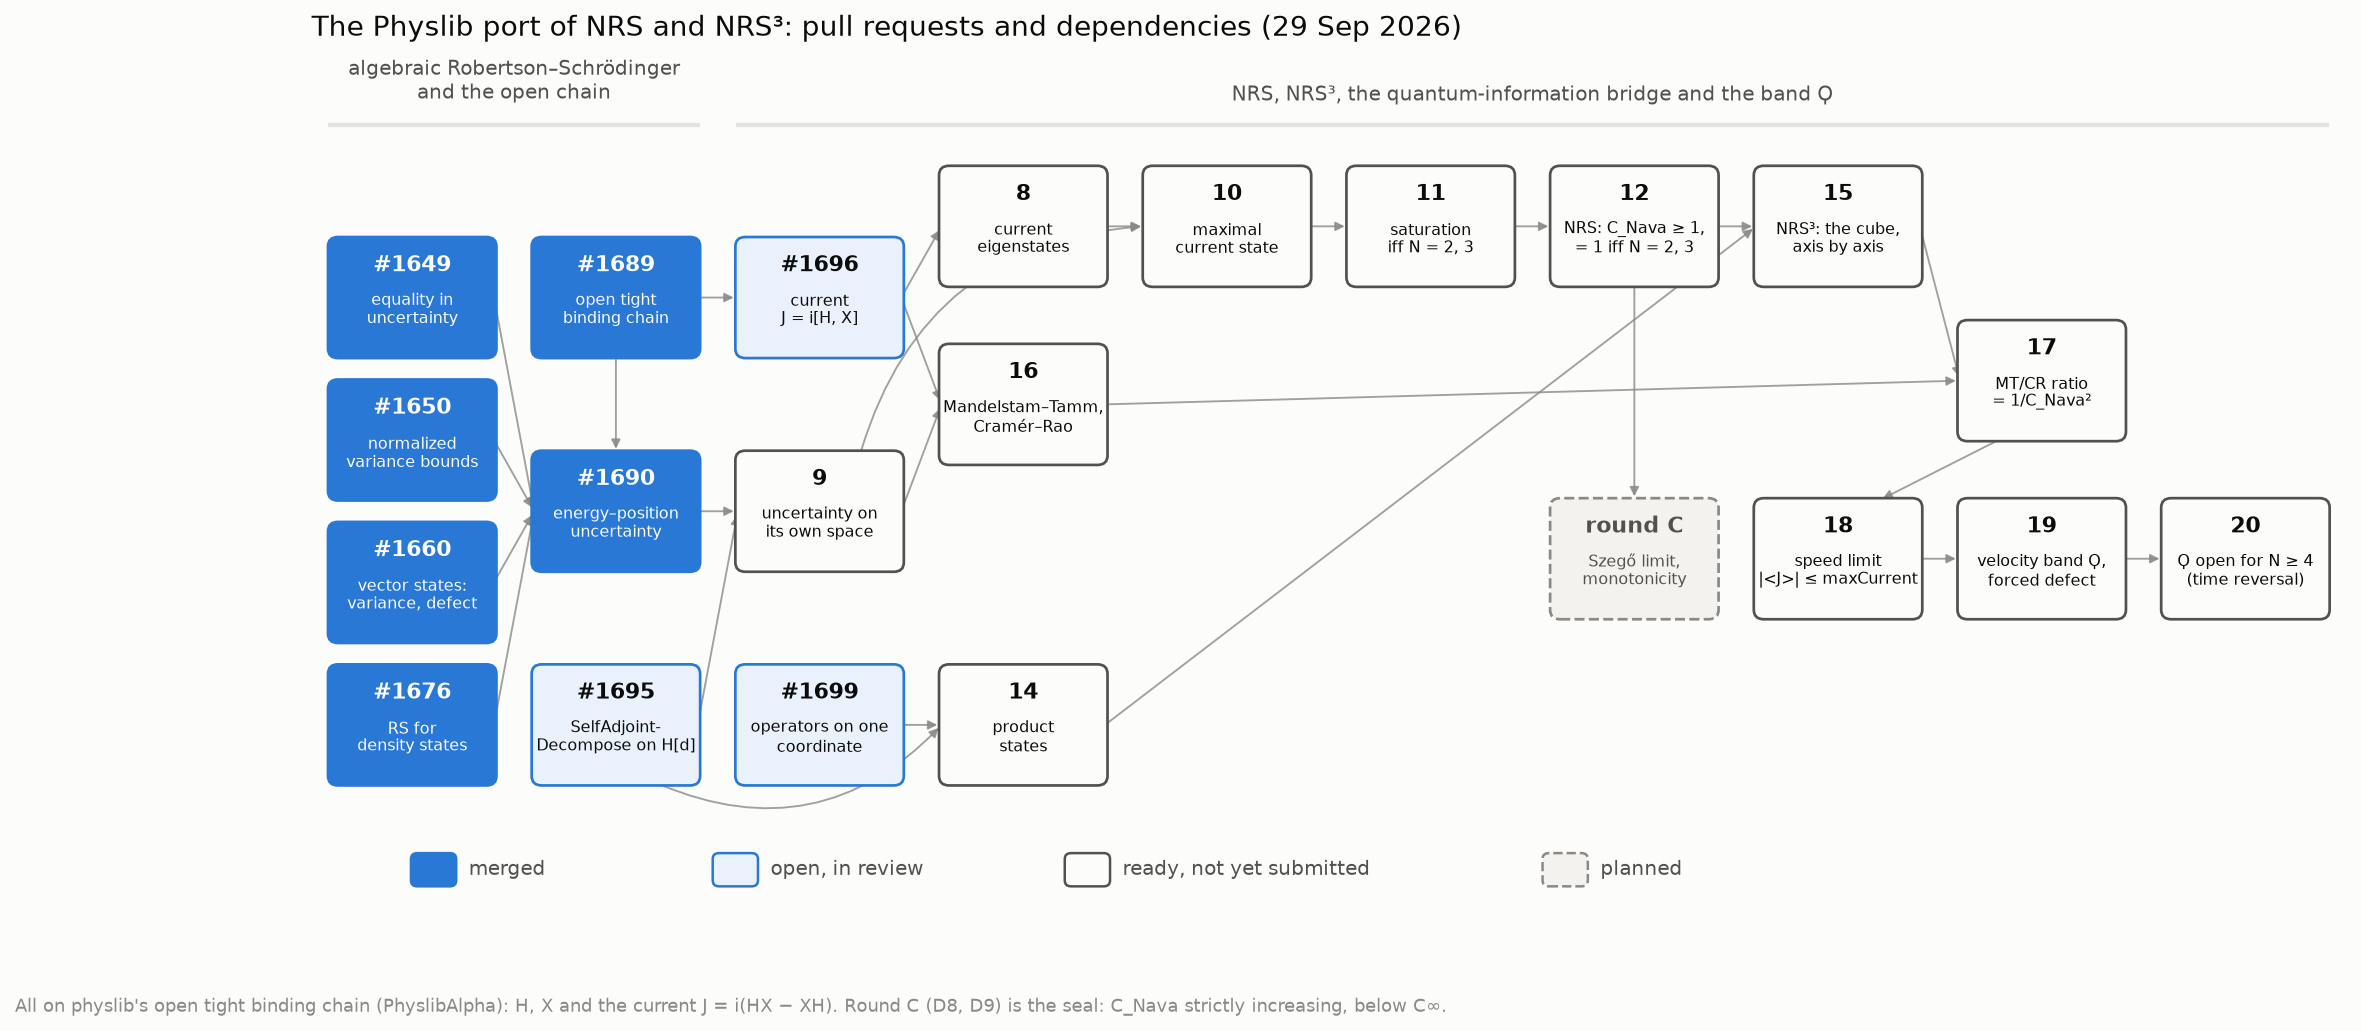
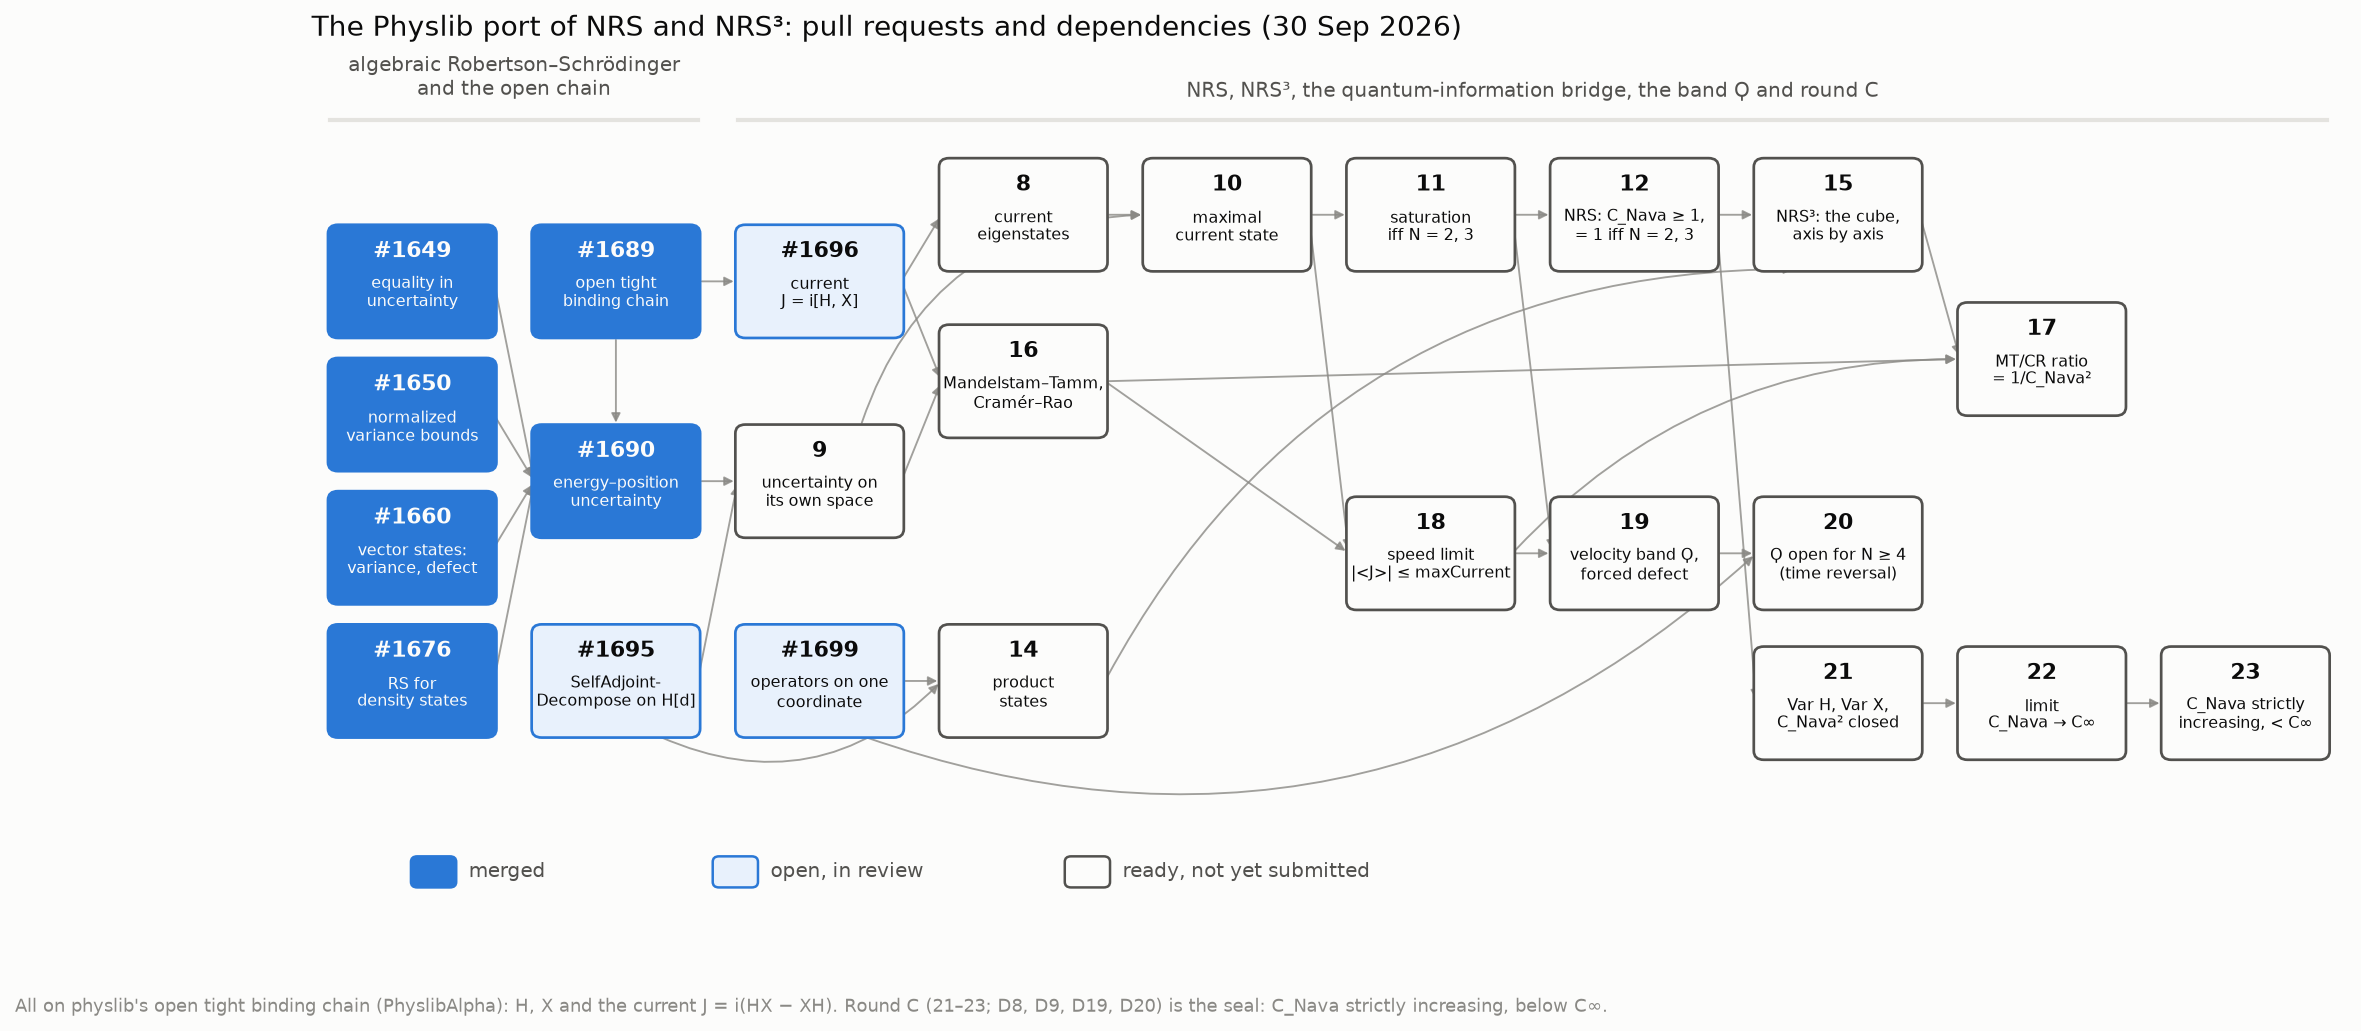
docs(PHYSLIB_PORT): round C (PRs 21–23), order of submission, new dependencies of 17–20

diff --git a/docs/simulation/figures_physlib_port.py b/docs/simulation/figures_physlib_port.py
@@ -5,7 +5,7 @@ Writes to docs/figures/:
   physlib_band_time_reversal.png   why the velocity band is open from four sites on (PR 20)
 
 The port states NRS on physlib's open tight binding chain: Hamiltonian H (hopping t), position X
-(spacing a), current J = i(HX − XH). The ladder records the status on 2026-09-29. In the second
+(spacing a), current J = i(HX − XH). The ladder records the status on 2026-09-30. In the second
 figure the currents, the phases and the defects are exact closed forms evaluated numerically; the
 thresholds v*(N) for N ≥ 5 are numerical (D44 figures), v*(4) = 3(√5 − 1)/4 is exact (D43).
 
@@ -43,22 +43,30 @@ NODES = {
     "10": (4, 5.6, "10\nmaximal\ncurrent state", "local"),
     "11": (5, 5.6, "11\nsaturation\niff N = 2, 3", "local"),
     "12": (6, 5.6, "12\nNRS: C_Nava ≥ 1,\n= 1 iff N = 2, 3", "local"),
-    "C": (6, 2.8, "round C\nSzegő limit,\nmonotonicity", "planned"),
     "15": (7, 5.6, "15\nNRS³: the cube,\naxis by axis", "local"),
     "17": (8, 4.3, "17\nMT/CR ratio\n= 1/C_Nava²", "local"),
-    "18": (7, 2.8, "18\nspeed limit\n|<J>| ≤ maxCurrent", "local"),
-    "19": (8, 2.8, "19\nvelocity band Ϙ,\nforced defect", "local"),
-    "20": (9, 2.8, "20\nϘ open for N ≥ 4\n(time reversal)", "local"),
+    "18": (5, 2.55, "18\nspeed limit\n|<J>| ≤ maxCurrent", "local"),
+    "19": (6, 2.55, "19\nvelocity band Ϙ,\nforced defect", "local"),
+    "20": (7, 2.55, "20\nϘ open for N ≥ 4\n(time reversal)", "local"),
+    "21": (7, 1.2, "21\nVar H, Var X,\nC_Nava² closed", "local"),
+    "22": (8, 1.2, "22\nlimit\nC_Nava → C∞", "local"),
+    "23": (9, 1.2, "23\nC_Nava strictly\nincreasing, < C∞", "local"),
 }
 
-CURVE = {("1695", "14"): 0.35, ("9", "10"): -0.35}
+CURVE = {("1695", "14"): 0.35, ("9", "10"): -0.35, ("18", "17"): -0.22,
+         ("1699", "20"): 0.3, ("14", "15"): -0.3}
+# edges that leave from the top or bottom of their box instead of its side
+VERTICAL_START = {("1695", "14"), ("9", "10"), ("1699", "20")}
+# edges that arrive at the bottom of their target box
+BOTTOM_END = {("14", "15")}
 
 EDGES = [
     ("1649", "1690"), ("1650", "1690"), ("1660", "1690"), ("1676", "1690"), ("1689", "1690"),
     ("1689", "1696"), ("1690", "9"), ("1695", "9"), ("1695", "14"), ("1699", "14"),
     ("1696", "8"), ("1696", "16"), ("9", "16"), ("8", "10"), ("9", "10"), ("10", "11"),
-    ("11", "12"), ("12", "15"), ("14", "15"), ("15", "17"), ("16", "17"), ("17", "18"),
-    ("18", "19"), ("19", "20"), ("12", "C"),
+    ("11", "12"), ("12", "15"), ("14", "15"), ("15", "17"), ("16", "17"), ("18", "17"),
+    ("10", "18"), ("16", "18"), ("11", "19"), ("18", "19"), ("19", "20"), ("1699", "20"),
+    ("12", "21"), ("21", "22"), ("22", "23"),
 ]
 
 STYLE = {
@@ -87,8 +95,11 @@ def fig_ladder():
             start, end = (x0 - W / 4, y0 - H / 2), (x1 + W / 4, y1 + H / 2)
         else:
             start, end = (x0 + W / 2, y0), (x1 - W / 2, y1)
-        if (a, b) in CURVE:
-            start, end = (x0 + W / 4, y0 + (H / 2 if y1 > y0 else -H / 2)), (x1 - W / 2, y1)
+        if (a, b) in VERTICAL_START:
+            up = y1 > y0 and (a, b) != ("1699", "20")
+            start, end = (x0 + W / 4, y0 + (H / 2 if up else -H / 2)), (x1 - W / 2, y1)
+        if (a, b) in BOTTOM_END:
+            end = (x1 - W / 4, y1 - H / 2)
         ax.add_patch(FancyArrowPatch(start, end, arrowstyle="-|>", mutation_scale=9, lw=0.9,
                                      color=MUTED, alpha=0.8, shrinkA=2, shrinkB=2, zorder=1,
                                      connectionstyle=f"arc3,rad={CURVE.get((a, b), 0)}"))
@@ -104,24 +115,23 @@ def fig_ladder():
                 color=s["tc"], linespacing=1.15, zorder=3)
     bands = [(-W / 2, DX + W / 2, "algebraic Robertson–Schrödinger\nand the open chain"),
              (2 * DX - W / 2, 9 * DX + W / 2,
-              "NRS, NRS³, the quantum-information bridge and the band Ϙ")]
+              "NRS, NRS³, the quantum-information bridge, the band Ϙ and round C")]
     for x0, x1, t in bands:
         ax.plot([x0, x1], [6.45, 6.45], color=GRID, lw=2)
         ax.text((x0 + x1) / 2, 6.62, t, ha="center", va="bottom", fontsize=9.5, color=INK2)
     for x, status, t in [(0.0, "merged", "merged"), (2.4, "open", "open, in review"),
-                         (5.2, "local", "ready, not yet submitted"),
-                         (9.0, "planned", "planned")]:
+                         (5.2, "local", "ready, not yet submitted")]:
         s = STYLE[status]
-        ax.add_patch(FancyBboxPatch((x, 0.05), 0.34, 0.26, boxstyle="round,pad=0.01,"
+        ax.add_patch(FancyBboxPatch((x, -0.45), 0.34, 0.26, boxstyle="round,pad=0.01,"
                      "rounding_size=0.05", fc=s["fc"], ec=s["ec"], ls=s["ls"], lw=1.2))
-        ax.text(x + 0.45, 0.18, t, va="center", fontsize=9.5, color=INK2)
+        ax.text(x + 0.45, -0.32, t, va="center", fontsize=9.5, color=INK2)
     ax.set_xlim(-0.8, 9 * DX + 0.8)
-    ax.set_ylim(-0.1, 7.1)
+    ax.set_ylim(-0.6, 7.1)
     ax.set_title("The Physlib port of NRS and NRS³: pull requests and dependencies "
-                 "(29 Sep 2026)", loc="left", fontsize=13.5, color=INK)
+                 "(30 Sep 2026)", loc="left", fontsize=13.5, color=INK)
     fig.text(0.012, 0.012, "All on physlib's open tight binding chain (PhyslibAlpha): H, X and "
-             "the current J = i(HX − XH). Round C (D8, D9) is the seal: C_Nava strictly "
-             "increasing, below C∞.", fontsize=8.5, color=MUTED)
+             "the current J = i(HX − XH). Round C (21–23; D8, D9, D19, D20) is the seal: C_Nava "
+             "strictly increasing, below C∞.", fontsize=8.5, color=MUTED)
     fig.savefig(OUT / "physlib_port_ladder.png", bbox_inches="tight")
     plt.close(fig)
 

diff --git a/docs/PHYSLIB_PORT.md b/docs/PHYSLIB_PORT.md
@@ -9,7 +9,7 @@ a result of the corpus in the vocabulary of a mainstream physical model.
 
 Every file is Mathlib, Physlib and PhyslibAlpha only, at most 300 lines, lines of at most 100
 characters, no `sorry`, only the standard axioms (`propext`, `Classical.choice`, `Quot.sound`),
-and passes every PhyslibAlpha linter. Status on 29 September 2026.
+and passes every PhyslibAlpha linter. Status on 30 September 2026.
 
 ![The Physlib port](figures/physlib_port_ladder.png)
 
@@ -34,11 +34,49 @@ and passes every PhyslibAlpha linter. Status on 29 September 2026.
 | 14 | `…/FiniteTarget/ProductState` | 236 | product states: one-coordinate statistics are the factor's | `D37` | ready |
 | 15 | `…/TightBindingChain/Cube` | 265 | the open cube; axes commute; `C_Nava` per axis; `nava_robertson_schrodinger_cube` | `D37` | ready |
 | 16 | `…/TightBindingChain/MandelstamTamm` | 139 | `|⟨J⟩| ≤ 2 ΔH ΔX` (Mandelstam–Tamm), `⟨J⟩²/Var X ≤ 4 Var H` (Cramér–Rao) | `D41` | ready |
-| 17 | `…/TightBindingChain/MandelstamTammMaxCurrent` | 134 | the ratio is `1/C_Nava²`, `= 1` iff `N = 2, 3`; per axis of the cube | `D41` | ready |
-| 18 | `…/TightBindingChain/SpeedLimit` | 207 | orthonormal basis of current eigenstates; `|⟨J⟩| ≤ 2|at| cos(π/(N+1))` in every state | `D38`, `D40` | ready |
-| 19 | `…/TightBindingChain/VelocityBand` | 171 | minimum-uncertainty vectors are compact; the threshold `v*` is attained; forced defect in `Ϙ` | `D44` | ready |
-| 20 | `…/TightBindingChain/VelocityBandWidth` | 265 | time reversal; `v* < maxCurrent` and `Ϙ ≠ ∅` for `N ≥ 4` | `D44`, `D46` | ready |
-| C | — | ~1250 | Szegő limit and strict monotonicity of `C_Nava` | `D8`, `D9` | planned |
+| 17 | `…/TightBindingChain/MandelstamTammMaxCurrent` | 126 | the ratio is `1/C_Nava²`, `= 1` iff `N = 2, 3`; per axis of the cube | `D41` | ready |
+| 18 | `…/TightBindingChain/SpeedLimit` | 218 | orthonormal basis of current eigenstates; `⟨J⟩ = 2at cos(π/(N+1))` in the maximal current state; `|⟨J⟩| ≤ 2|at| cos(π/(N+1))` in every state | `D38`, `D40` | ready |
+| 19 | `…/TightBindingChain/VelocityBand` | 172 | minimum-uncertainty vectors are compact; the threshold `v*` is attained; forced defect in `Ϙ` | `D44` | ready |
+| 20 | `…/TightBindingChain/VelocityBandWidth` | 266 | time reversal; `v* < maxCurrent` and `Ϙ ≠ ∅` for `N ≥ 4` | `D44`, `D46` | ready |
+| 21 | `…/TightBindingChain/MaxCurrentVariances` | 249 | `Var H = 4t² sin²θ (N−1)/(N+1)`, `Var X = a²(((N+1)²+2)/12 − 1/(2 sin²θ))`, `θ = π/(N+1)`; `C_Nava²` in closed form (`CNava_sq_eq`) | `D19`, `D20` | ready |
+| 22 | `…/TightBindingChain/LongChainLimit` | 108 | `C_Nava → √(π²/3 − 2)` along any family of chains with `N → ∞` (`tendsto_CNava`); the limit is `> 1` | `D8` | ready |
+| 23 | `…/TightBindingChain/LongChainMonotonicity` | 297 | `C_Nava` strictly increasing in `N` from four sites on (`CNava_lt_CNava`); `C_Nava < √(π²/3 − 2)` | `D9` | ready |
+
+## Order of submission
+
+At most three pull requests are open at a time; each wave goes up when the previous one is
+merged. The dependencies are those of the `import` lines.
+
+| Wave | Pull requests | Depends on |
+|---|---|---|
+| 0 | #1695, #1696, #1699 | merged work |
+| 1 | 8, 9, 14 | #1696; #1695; #1699 |
+| 2 | 10, 16 | 8, 9; #1696, 9 |
+| 3 | 11, 18 | 10; 10, 16 |
+| 4 | 12 (NRS), 19 | 11; 11, 18 |
+| 5 | 15 (NRS³), 20, 21 | 12, 14; 19, #1699; 12 |
+| 6 | 17 (Mandelstam–Tamm, Cramér–Rao), 22 | 15, 16, 18; 21 |
+| 7 | 23 (monotonicity) | 22 |
+
+## Round C: shorter than the corpus (PRs 21–23)
+
+The corpus reaches `C_Nava < C_∞` through `D19` and `D20` (the closed form, 1142 lines) and `D8`,
+`D9` (limit and monotonicity, 1248 lines). The port needs 654 lines in three files, for two
+reasons.
+
+* **One sum at a root of unity.** The position variance of the maximal current state rests on
+  `∑ j < n, (j − n/2)² cos(2jθ) = n/(2 sin²θ)` with `n = N + 1`, `θ = π/n`. Summation by parts
+  against the powers of `z = e^{2iθ}`, a root of unity of order `n`, gives
+  `∑ j < n, (j − n/2)² zʲ = −2nz/(z − 1)²`, which is real and equal to `n/(2 sin²θ)`. The
+  weighted root, period and angle sums of the earlier series are not needed.
+* **A certificate in one variable.** `D9` bounds the remainder of the derivative of `C_Nava²` by a
+  Bernstein certificate in two variables `(x/π, π)` of degree `(12, 12)`: 169 terms and
+  `maxHeartbeats 4000000`. Written in `x = π/(N + 1)` the remainder has degree three in `π`;
+  with `3.141592 < π < 3.141593` each power of `π` is bounded by the sign of its coefficient, and
+  what is left is one polynomial of degree twelve in `x ∈ [0, 1571/2500]` whose thirteen
+  Bernstein coefficients are negative (the largest is `≈ −1169`). The file builds with the
+  default heartbeats. The positivity `C_Nava > 1` for `N ≥ 4` (the Taylor half of `D8`) is not
+  ported: it is the Gram defect of PRs 11 and 12.
 
 ## A new proof that the band is open (PR 20)
 
